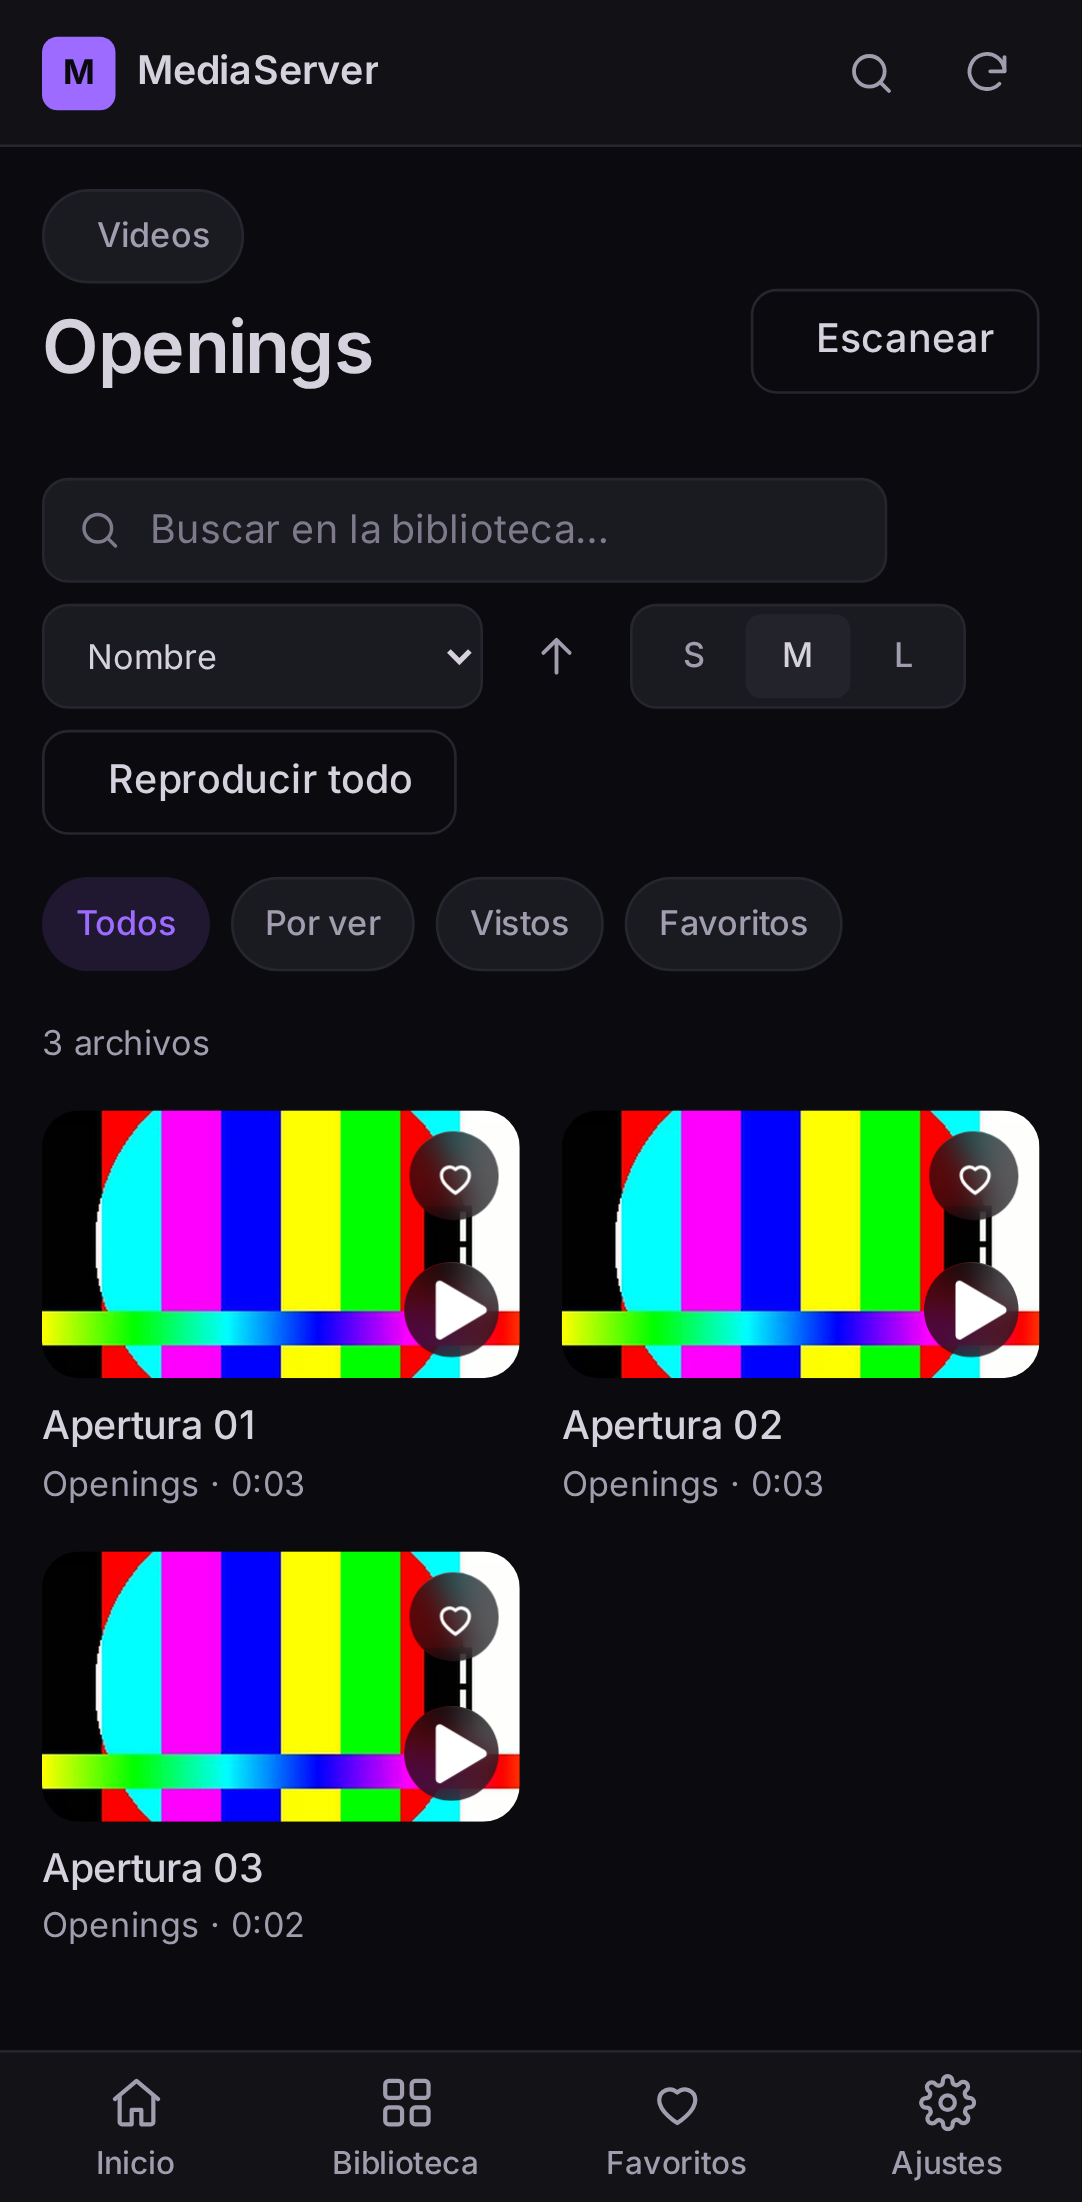
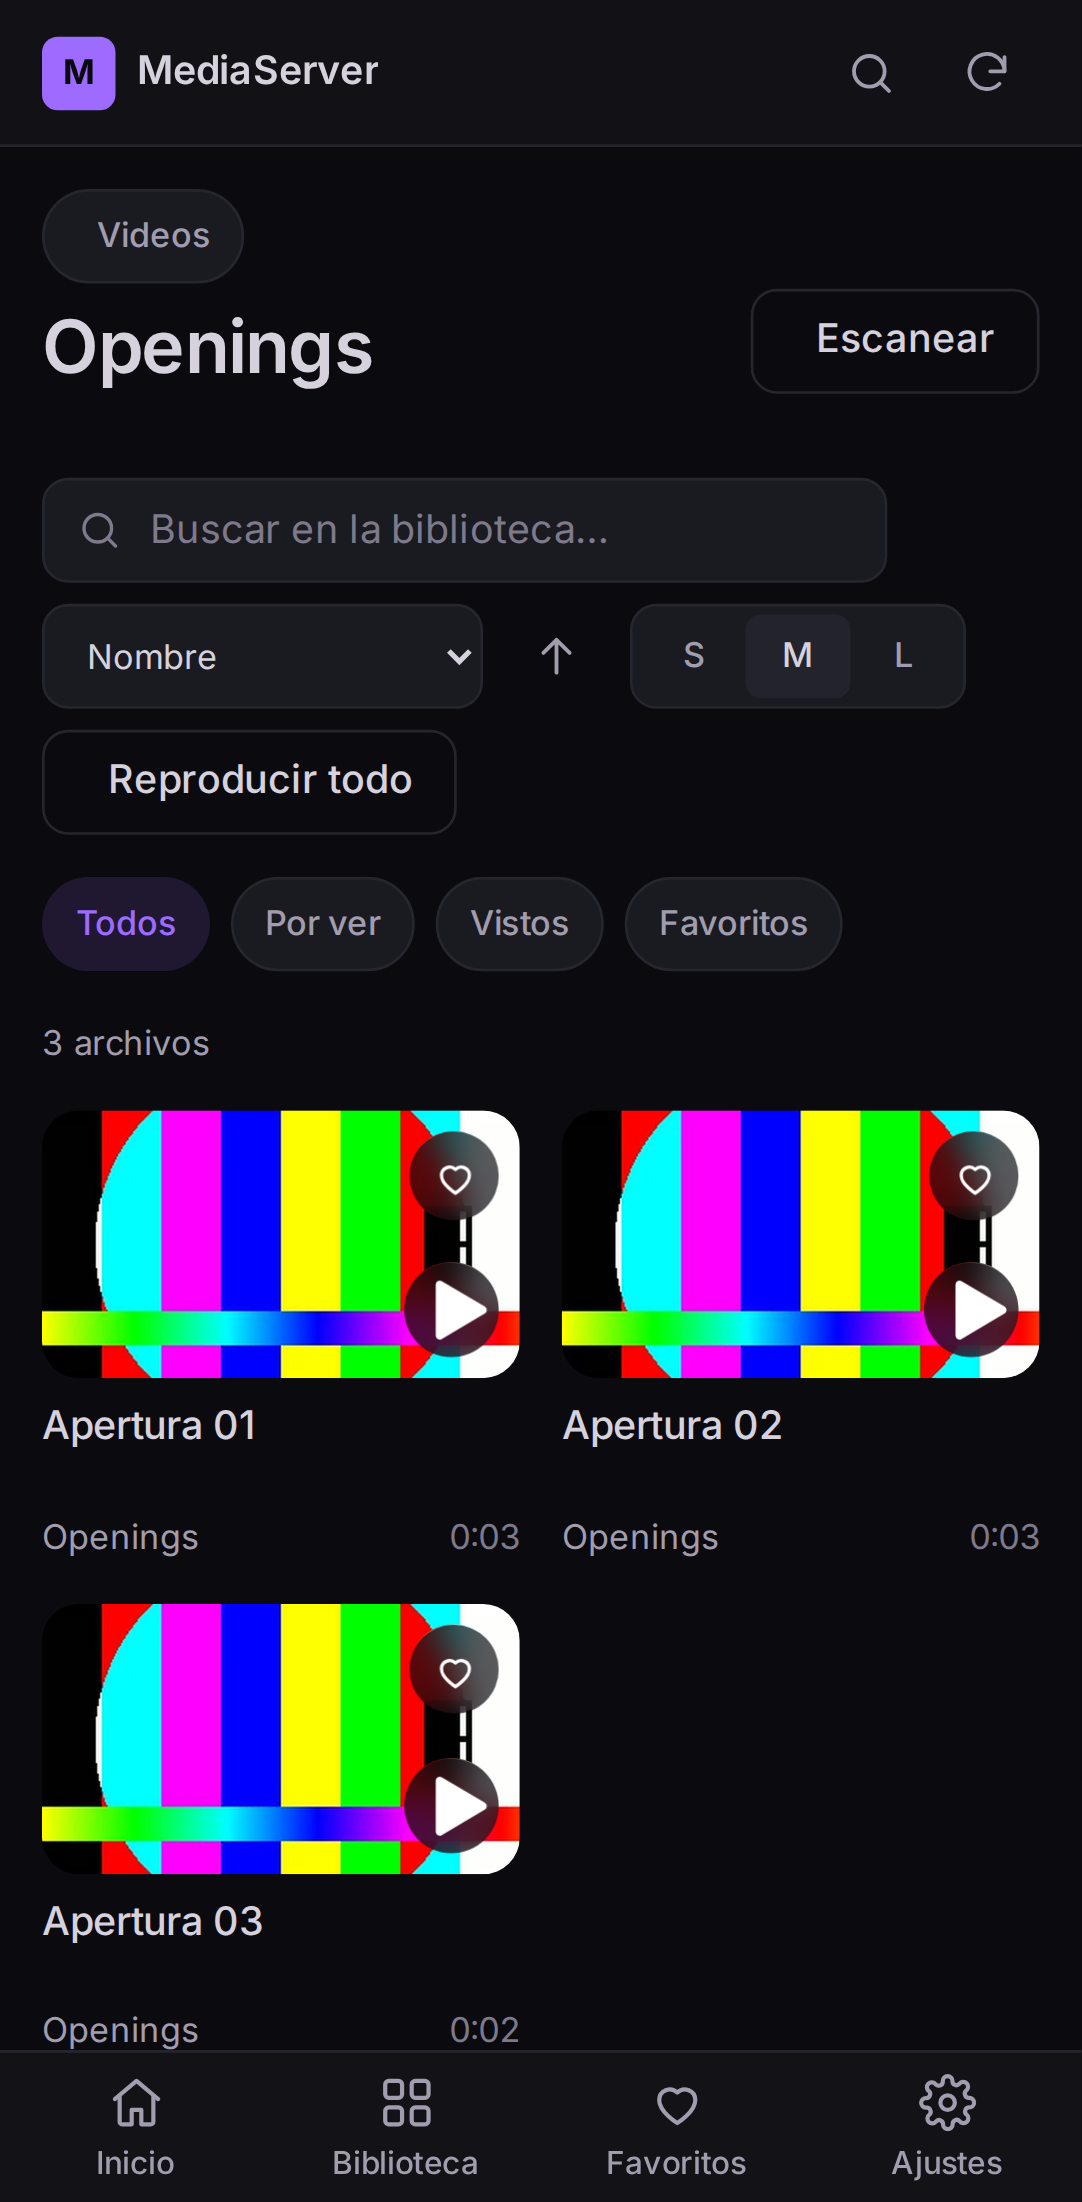
Pulir la interfaz con la biblioteca real
Defectos que sólo se ven con contenido de verdad (nombres de canal largos):

- La línea de metadatos de las tarjetas juntaba canal y duración en el mismo
  texto, así que un canal largo se comía el dato útil («Q…»). Ahora el canal se
  recorta y el tiempo (duración o restante) nunca.
- El título de las tarjetas reserva dos líneas: las tarjetas de una fila
  alinean sus metadatos aunque el título ocupe una sola.
- «Seguir viendo» usaba columnas de 1fr: con un único elemento la carátula se
  estiraba a todo el ancho. Ahora el ancho está acotado.
- En escritorio la marca salía dos veces (barra lateral y superior).
- La barra del reproductor se estiraba a cuatro líneas con un canal largo.
- El audio usaba los controles de la librería de vídeo, pensados para
  contenedores anchos: en un móvil se apelotonaban. Se sustituyen por una barra
  propia (retroceder 10 s, reproducir, avanzar 10 s, posición, duración) que
  además recorta 8 kB de CSS.
- «1 vistos» pasa a «1 visto».

diff --git a/src/components/PlayerDock.tsx b/src/components/PlayerDock.tsx
@@ -1,10 +1,9 @@
 import { MediaPlayer, MediaProvider } from '@vidstack/react';
-import { DefaultAudioLayout, DefaultVideoLayout, defaultLayoutIcons } from '@vidstack/react/player/layouts/default';
+import { DefaultVideoLayout, defaultLayoutIcons } from '@vidstack/react/player/layouts/default';
 import { useState } from 'react';
 import { useLocation, useMatch, useNavigate } from 'react-router-dom';
 import '@vidstack/react/player/styles/default/theme.css';
 import '@vidstack/react/player/styles/default/layouts/video.css';
-import '@vidstack/react/player/styles/default/layouts/audio.css';
 import { useLibrary } from '../data/LibraryProvider.js';
 import { usePlayer } from '../data/PlayerProvider.js';
 import { usePreferences } from '../data/Preferences.js';
@@ -75,11 +74,7 @@ export function PlayerDock() {
               streamType="on-demand"
             >
               <MediaProvider />
-              {current.kind === 'video' ? (
-                <DefaultVideoLayout icons={defaultLayoutIcons} />
-              ) : (
-                <DefaultAudioLayout icons={defaultLayoutIcons} />
-              )}
+              {current.kind === 'video' ? <DefaultVideoLayout icons={defaultLayoutIcons} /> : <AudioControls />}
             </MediaPlayer>
           ) : (
             <div className="state" style={{ border: 0, maxWidth: 420 }}>
@@ -101,7 +96,7 @@ export function PlayerDock() {
               <div className="player-bar-top">
                 <div className="player-titles">
                   <h1 className="clamp-2">{current.title}</h1>
-                  <p className="sub">
+                  <p className="sub clamp-1">
                     {current.channel}
                     {duration > 0 ? ` · ${formatClock(position) || '0:00'} / ${formatClock(duration)}` : ''}
                   </p>
@@ -231,6 +226,52 @@ export function PlayerDock() {
         </div>
       </Sheet>
     </>
+  );
+}
+
+/**
+ * Controles propios para audio. La barra que trae la librería de vídeo está
+ * pensada para contenedores anchos y en un móvil se apelotona (título cortado,
+ * etiquetas sueltas). Aquí el título ya se ve debajo, así que la barra se queda
+ * con lo útil: retroceder, reproducir, avanzar, posición y duración.
+ */
+function AudioControls() {
+  const { playing, position, duration, toggle, seekTo } = usePlayer();
+  const max = duration > 0 ? duration : 1;
+
+  return (
+    <div className="audio-controls">
+      <button type="button" className="icon-btn" onClick={() => seekTo(Math.max(0, position - 10))} aria-label="Retroceder 10 segundos">
+        <IconSkipPrev />
+      </button>
+      <button type="button" className="audio-play" onClick={toggle} aria-label={playing ? 'Pausar' : 'Reproducir'}>
+        {playing ? <IconPause /> : <IconPlay />}
+      </button>
+      <button
+        type="button"
+        className="icon-btn"
+        onClick={() => seekTo(Math.min(duration, position + 10))}
+        aria-label="Avanzar 10 segundos"
+        disabled={duration === 0}
+      >
+        <IconSkipNext />
+      </button>
+
+      <span className="audio-time">{formatClock(position) || '0:00'}</span>
+      <input
+        className="audio-seek"
+        type="range"
+        min={0}
+        max={max}
+        step={1}
+        value={Math.min(position, max)}
+        aria-label="Posición de reproducción"
+        aria-valuetext={`${formatClock(position) || '0:00'} de ${formatClock(duration) || '0:00'}`}
+        disabled={duration === 0}
+        onChange={(event) => seekTo(Number(event.target.value))}
+      />
+      <span className="audio-time">{formatClock(duration) || '0:00'}</span>
+    </div>
   );
 }
 

diff --git a/src/styles/app.css b/src/styles/app.css
@@ -223,6 +223,11 @@
     background: color-mix(in srgb, var(--bg) 85%, transparent);
   }
 
+  /* La marca ya está en la barra lateral: no se repite arriba. */
+  .appbar-brand {
+    display: none;
+  }
+
   .app-body {
     display: contents;
   }
@@ -838,6 +843,9 @@
   font-size: var(--fs-base);
   font-weight: var(--fw-medium);
   line-height: 1.35;
+  /* Reserva las dos líneas del recorte: así todas las tarjetas de una fila
+   * alinean sus metadatos aunque un título ocupe una sola línea. */
+  min-height: 2.7em;
   color: var(--text);
 }
 
@@ -848,6 +856,20 @@
   color: var(--text-muted);
   font-size: var(--fs-sm);
   min-width: 0;
+}
+
+/* El canal se recorta; el tiempo (duración o restante) nunca. Con nombres de
+ * canal largos, antes se comía el dato útil. */
+.card-meta > span:first-child {
+  flex: 1 1 auto;
+  min-width: 0;
+}
+
+.card-time {
+  flex: 0 0 auto;
+  color: var(--text-subtle);
+  font-variant-numeric: tabular-nums;
+  white-space: nowrap;
 }
 
 .card-meta .dot::before {
@@ -895,11 +917,12 @@
   border-radius: var(--r-md);
 }
 
-/* Carrusel horizontal (Seguir viendo) */
+/* Carrusel horizontal (Seguir viendo). Ancho acotado: con `1fr` una sola
+ * tarjeta se estiraba a todo el ancho y la carátula quedaba gigante. */
 .scroller {
   display: grid;
   grid-auto-flow: column;
-  grid-auto-columns: minmax(220px, 1fr);
+  grid-auto-columns: min(76vw, 300px);
   gap: var(--s-4);
   overflow-x: auto;
   scroll-snap-type: x mandatory;
@@ -917,13 +940,13 @@
 
 @media (min-width: 600px) {
   .scroller {
-    grid-auto-columns: minmax(260px, 1fr);
+    grid-auto-columns: min(38vw, 320px);
   }
 }
 
 @media (min-width: 1024px) {
   .scroller {
-    grid-auto-columns: minmax(300px, 1fr);
+    grid-auto-columns: 300px;
   }
 }
 
@@ -1559,6 +1582,87 @@
 .player-media {
   --media-brand: var(--accent);
   --media-border-radius: 0;
+}
+
+/* Barra de controles propia para audio (ver AudioControls). */
+.audio-controls {
+  display: flex;
+  align-items: center;
+  gap: var(--s-2);
+  width: 100%;
+  padding: var(--s-2) var(--s-3) calc(var(--s-2) + var(--safe-bottom));
+  background: var(--surface-2);
+  border-top: 1px solid var(--border);
+}
+
+.player-dock[data-mode="mini"] .audio-controls {
+  display: none;
+}
+
+.audio-play {
+  display: grid;
+  place-items: center;
+  width: 44px;
+  height: 44px;
+  flex: 0 0 auto;
+  border-radius: var(--r-full);
+  background: var(--accent);
+  color: var(--on-accent);
+}
+
+.audio-play svg {
+  width: 20px;
+  height: 20px;
+}
+
+.audio-time {
+  flex: 0 0 auto;
+  color: var(--text-muted);
+  font-size: var(--fs-xs);
+  font-variant-numeric: tabular-nums;
+}
+
+.audio-seek {
+  flex: 1 1 auto;
+  min-width: 0;
+  height: 24px;
+  appearance: none;
+  background: none;
+  cursor: pointer;
+}
+
+.audio-seek::-webkit-slider-runnable-track {
+  height: 4px;
+  border-radius: var(--r-full);
+  background: var(--surface-3);
+}
+
+.audio-seek::-moz-range-track {
+  height: 4px;
+  border-radius: var(--r-full);
+  background: var(--surface-3);
+}
+
+.audio-seek::-webkit-slider-thumb {
+  appearance: none;
+  width: 14px;
+  height: 14px;
+  margin-top: -5px;
+  border-radius: var(--r-full);
+  background: var(--accent);
+}
+
+.audio-seek::-moz-range-thumb {
+  width: 14px;
+  height: 14px;
+  border: 0;
+  border-radius: var(--r-full);
+  background: var(--accent);
+}
+
+.audio-seek:disabled {
+  opacity: 0.5;
+  cursor: default;
 }
 
 /* El corazón y el check del reproductor son cuadrados y grandes al tacto. */

diff --git a/src/components/MediaCard.tsx b/src/components/MediaCard.tsx
@@ -17,11 +17,14 @@ type MediaCardProps = {
   paused?: boolean;
 };
 
-function metaLine(item: Item): { text: string; remaining: string } {
+/**
+ * Línea de metadatos, en dos piezas separadas para que el tiempo sobreviva a un
+ * nombre de canal largo: el canal se recorta, la duración nunca.
+ */
+function metaLine(item: Item): { channel: string; time: string } {
   const inProgress = item.progress > 0.01 && item.progress < 0.95 && !item.watched;
-  if (inProgress) return { text: item.channel, remaining: formatRemaining(item.position, item.duration) };
-  const duration = formatClock(item.duration);
-  return { text: duration ? `${item.channel} · ${duration}` : item.channel, remaining: '' };
+  if (inProgress) return { channel: item.channel, time: formatRemaining(item.position, item.duration) };
+  return { channel: item.channel, time: formatClock(item.duration) };
 }
 
 /**
@@ -29,7 +32,7 @@ function metaLine(item: Item): { text: string; remaining: string } {
  * tarjeta sea pulsable y navegable con teclado sin anidar interactivos.
  */
 export function MediaCard({ item, to, eager = false, onFavorite, playing = false, paused = false }: MediaCardProps) {
-  const { text, remaining } = metaLine(item);
+  const { channel, time } = metaLine(item);
   const progress = item.watched ? 0 : item.progress;
 
   return (
@@ -60,8 +63,8 @@ export function MediaCard({ item, to, eager = false, onFavorite, playing = false
           </Link>
         </h3>
         <p className="card-meta">
-          <span className="clamp-1">{text}</span>
-          {remaining && <span className="clamp-1">{remaining}</span>}
+          <span className="clamp-1">{channel}</span>
+          {time && <span className="card-time">{time}</span>}
           {item.watched && (
             <span className="card-seen">
               <IconCheck />

diff --git a/src/components/MediaCard.test.tsx b/src/components/MediaCard.test.tsx
@@ -40,10 +40,13 @@ function renderCard(props: Partial<Parameters<typeof MediaCard>[0]> = {}) {
 }
 
 describe('MediaCard', () => {
-  test('expone el título y el canal como texto legible', () => {
+  test('expone el título, el canal y la duración como texto legible', () => {
     renderCard();
     expect(screen.getByRole('heading', { name: 'Apertura de prueba' })).toBeInTheDocument();
-    expect(screen.getByText('Openings · 5:00')).toBeInTheDocument();
+    // Canal y duración van en elementos separados: con nombres de canal largos,
+    // el tiempo tiene que poder leerse siempre.
+    expect(screen.getByText('Openings')).toBeInTheDocument();
+    expect(screen.getByText('5:00')).toBeInTheDocument();
   });
 
   test('toda la tarjeta es un enlace navegable con el título como nombre accesible', () => {

diff --git a/src/routes/HomeRoute.tsx b/src/routes/HomeRoute.tsx
@@ -51,7 +51,7 @@ export function HomeRoute({ onScan, scanning }: { onScan: () => void; scanning: 
           <p className="eyebrow">Tu biblioteca</p>
           <h1>Inicio</h1>
           <p className="sub">
-            {plural(data.stats.items, 'archivo')} · {data.stats.watched} vistos
+            {plural(data.stats.items, 'archivo')} · {plural(data.stats.watched, 'visto')}
             {data.stats.duration > 0 ? ` · ${formatDuration(data.stats.duration)} en total` : ''}
           </p>
         </div>
